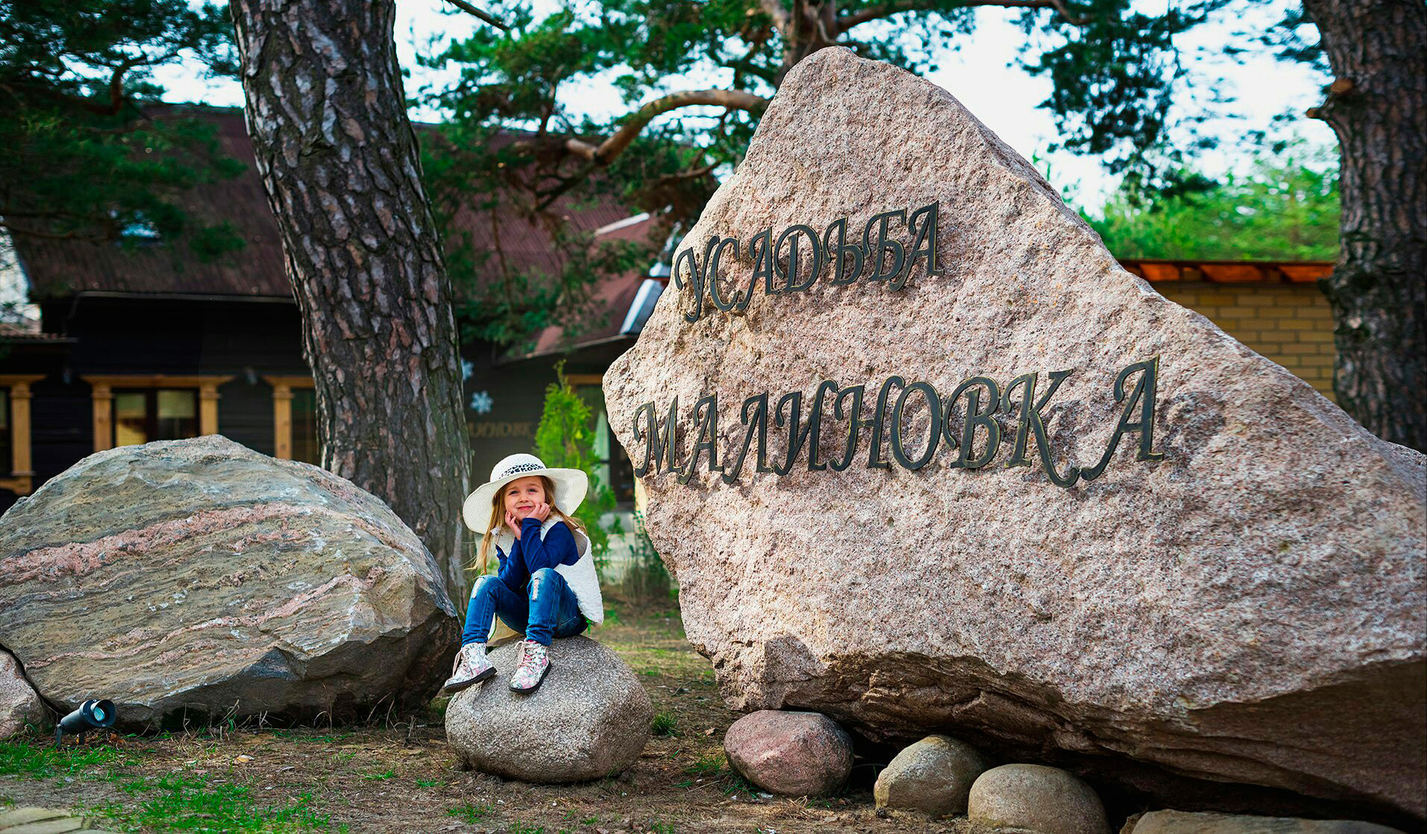
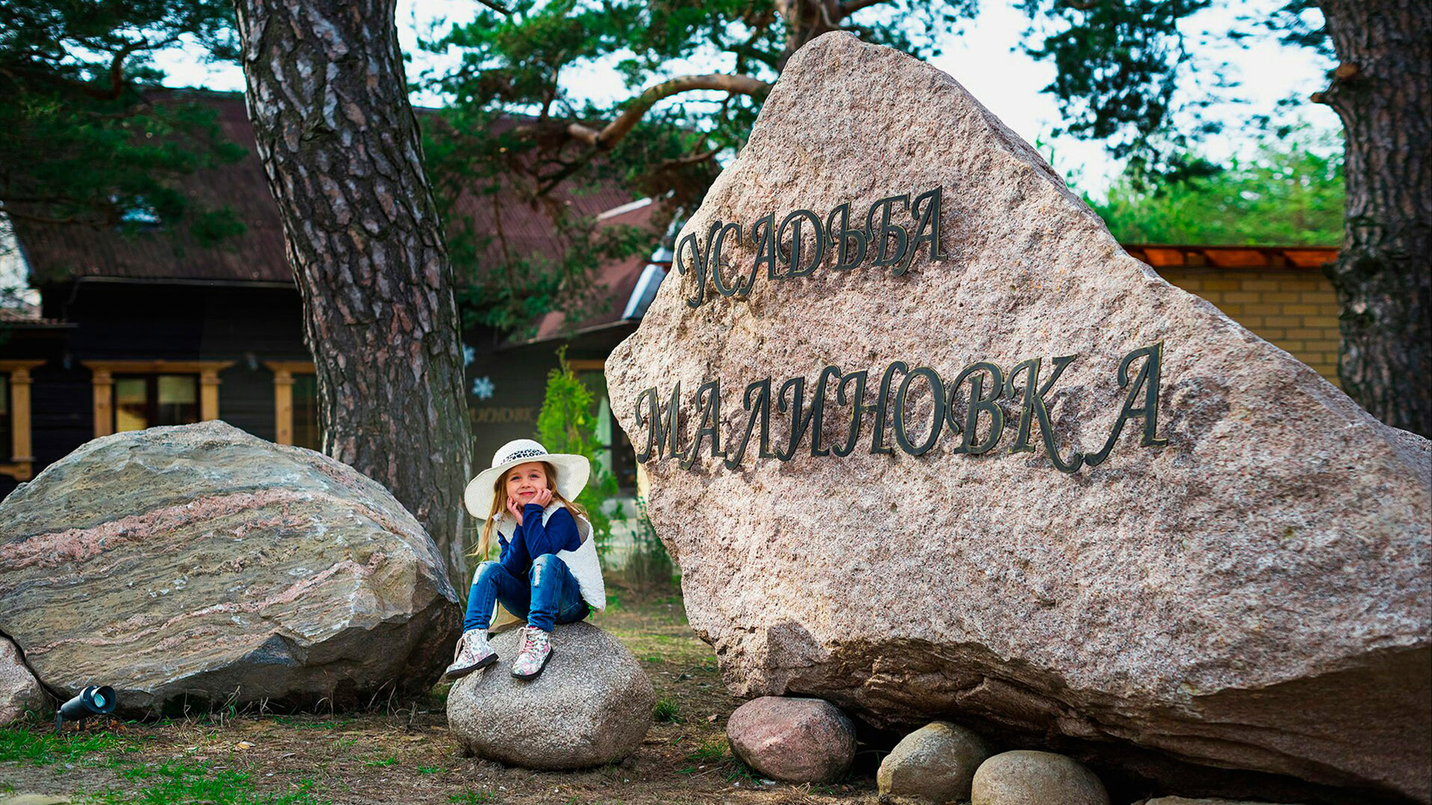
fix img in mobyle

diff --git a/css/style.css b/css/style.css
@@ -318,3 +318,20 @@ a {
     font-size: 2.5rem;
 	}
 }
+
+@media only screen and (orientation:portrait) {
+	.bunner:before {
+		content: "";
+		width: 100%;
+		height: 100%;
+		position: absolute;
+		top: 0;
+		left: 0;
+		-webkit-backface-visibility: hidden;
+		backface-visibility: hidden;
+		background: url("../img/slideMobile.jpg") no-repeat center bottom fixed;
+					background-size: 100% auto;
+		background-attachment: fixed;
+		background-color: #2c2929;
+	}
+}
